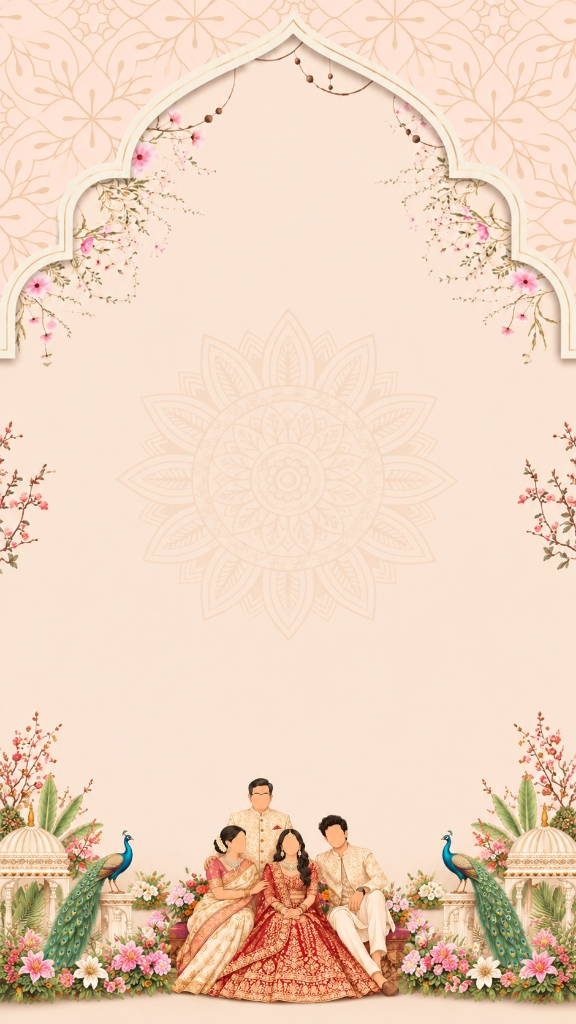
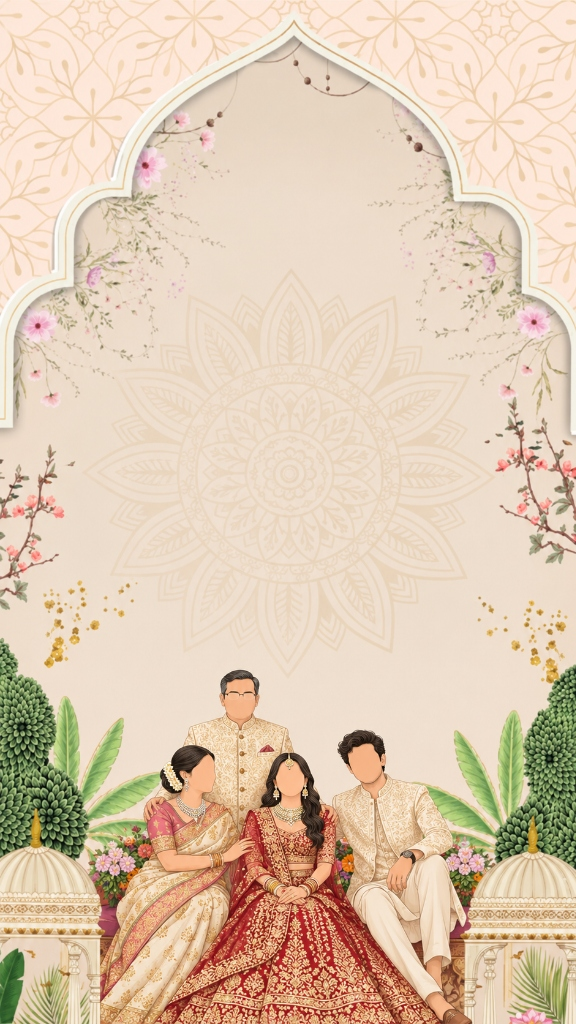
Update last screen background for all Vaibhavi versions with new family illustration

diff --git a/index.html b/index.html
@@ -56,7 +56,7 @@
   <meta name="twitter:image" content="https://vrinlove.duckdns.org/assets/og-whatsapp-thumb.jpg" />
 
   <!-- CSS Stylesheet -->
-  <link rel="stylesheet" href="css/style.css?v=2027s" />
+  <link rel="stylesheet" href="css/style.css?v=2027t" />
 </head>
 <body class="envelope-active">
 
@@ -337,6 +337,6 @@
   </div>
 
   <!-- JavaScript Bundle -->
-  <script src="js/main.js?v=2027s"></script>
+  <script src="js/main.js?v=2027t"></script>
 </body>
 </html>

diff --git a/version-1/index.html b/version-1/index.html
@@ -30,7 +30,7 @@
   <meta name="twitter:image" content="https://vrinlove.duckdns.org/assets/og-whatsapp-thumb.jpg" />
 
   <!-- CSS Stylesheet -->
-  <link rel="stylesheet" href="css/style.css?v=2027s" />
+  <link rel="stylesheet" href="css/style.css?v=2027t" />
 </head>
 <body class="envelope-active">
 
@@ -311,6 +311,6 @@
   </div>
 
   <!-- JavaScript Bundle -->
-  <script src="js/main.js?v=2027s"></script>
+  <script src="js/main.js?v=2027t"></script>
 </body>
 </html>

diff --git a/version-2/index.html b/version-2/index.html
@@ -30,7 +30,7 @@
   <meta name="twitter:image" content="https://vrinlove.duckdns.org/assets/og-whatsapp-thumb.jpg" />
 
   <!-- CSS Stylesheet -->
-  <link rel="stylesheet" href="css/style.css?v=2027s" />
+  <link rel="stylesheet" href="css/style.css?v=2027t" />
 </head>
 <body class="envelope-active">
 
@@ -320,6 +320,6 @@
   </div>
 
   <!-- JavaScript Bundle -->
-  <script src="js/main.js?v=2027s"></script>
+  <script src="js/main.js?v=2027t"></script>
 </body>
 </html>

diff --git a/version-3/index.html b/version-3/index.html
@@ -30,7 +30,7 @@
   <meta name="twitter:image" content="https://vrinlove.duckdns.org/assets/og-whatsapp-thumb.jpg" />
 
   <!-- CSS Stylesheet -->
-  <link rel="stylesheet" href="css/style.css?v=2027s" />
+  <link rel="stylesheet" href="css/style.css?v=2027t" />
 </head>
 <body class="envelope-active">
 
@@ -444,6 +444,6 @@
   </div>
 
   <!-- JavaScript Bundle -->
-  <script src="js/main.js?v=2027s"></script>
+  <script src="js/main.js?v=2027t"></script>
 </body>
 </html>

diff --git a/version-4/index.html b/version-4/index.html
@@ -30,7 +30,7 @@
   <meta name="twitter:image" content="https://vrinlove.duckdns.org/assets/og-whatsapp-thumb.jpg" />
 
   <!-- CSS Stylesheet -->
-  <link rel="stylesheet" href="css/style.css?v=2027s" />
+  <link rel="stylesheet" href="css/style.css?v=2027t" />
 </head>
 <body class="envelope-active">
 
@@ -377,6 +377,6 @@
   </div>
 
   <!-- JavaScript Bundle -->
-  <script src="js/main.js?v=2027s"></script>
+  <script src="js/main.js?v=2027t"></script>
 </body>
 </html>

diff --git a/version-5/index.html b/version-5/index.html
@@ -30,7 +30,7 @@
   <meta name="twitter:image" content="https://vrinlove.duckdns.org/assets/og-whatsapp-thumb.jpg" />
 
   <!-- CSS Stylesheet -->
-  <link rel="stylesheet" href="css/style.css?v=2027s" />
+  <link rel="stylesheet" href="css/style.css?v=2027t" />
 </head>
 <body class="envelope-active">
 
@@ -396,6 +396,6 @@
   </div>
 
   <!-- JavaScript Bundle -->
-  <script src="js/main.js?v=2027s"></script>
+  <script src="js/main.js?v=2027t"></script>
 </body>
 </html>

diff --git a/generate_pages.py b/generate_pages.py
@@ -549,7 +549,7 @@ def build_html_page(cfg, is_root=False):
   <meta name="twitter:image" content="https://vrinlove.duckdns.org/assets/og-whatsapp-thumb.jpg" />
 
   <!-- CSS Stylesheet -->
-  <link rel="stylesheet" href="css/style.css?v=2027s" />
+  <link rel="stylesheet" href="css/style.css?v=2027t" />
 </head>
 <body class="envelope-active">
 
@@ -723,7 +723,7 @@ def build_html_page(cfg, is_root=False):
   </div>
 
   <!-- JavaScript Bundle -->
-  <script src="js/main.js?v=2027s"></script>
+  <script src="js/main.js?v=2027t"></script>
 </body>
 </html>
 """
